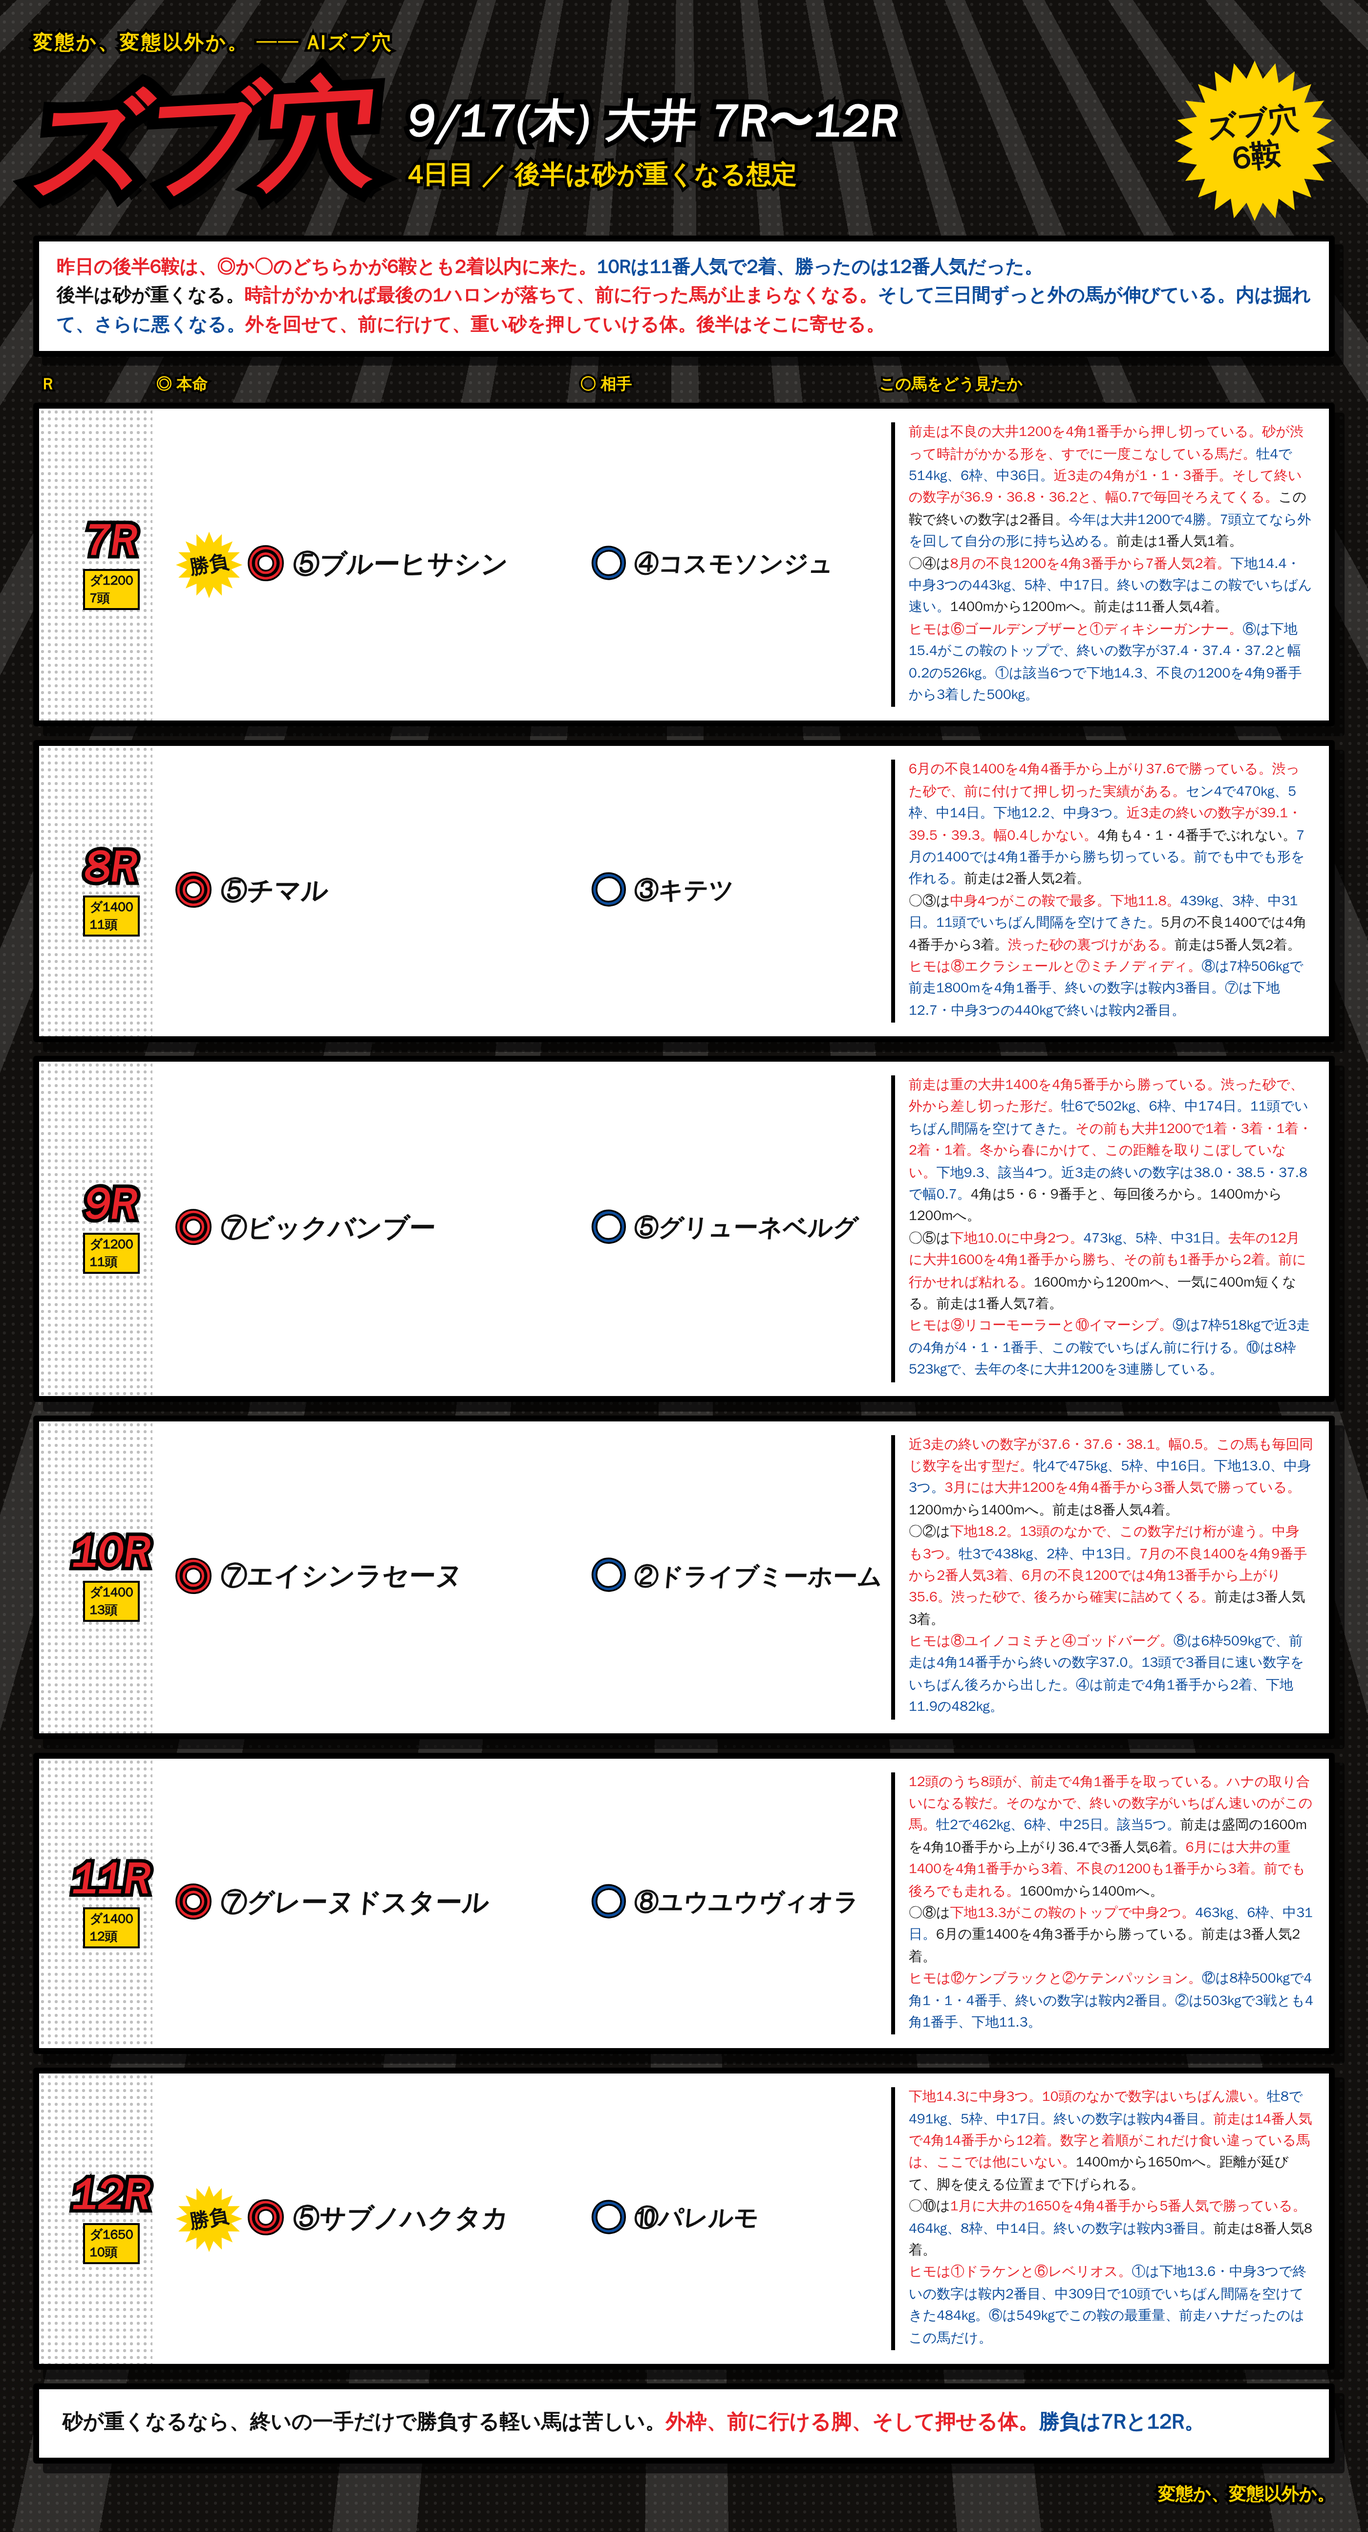
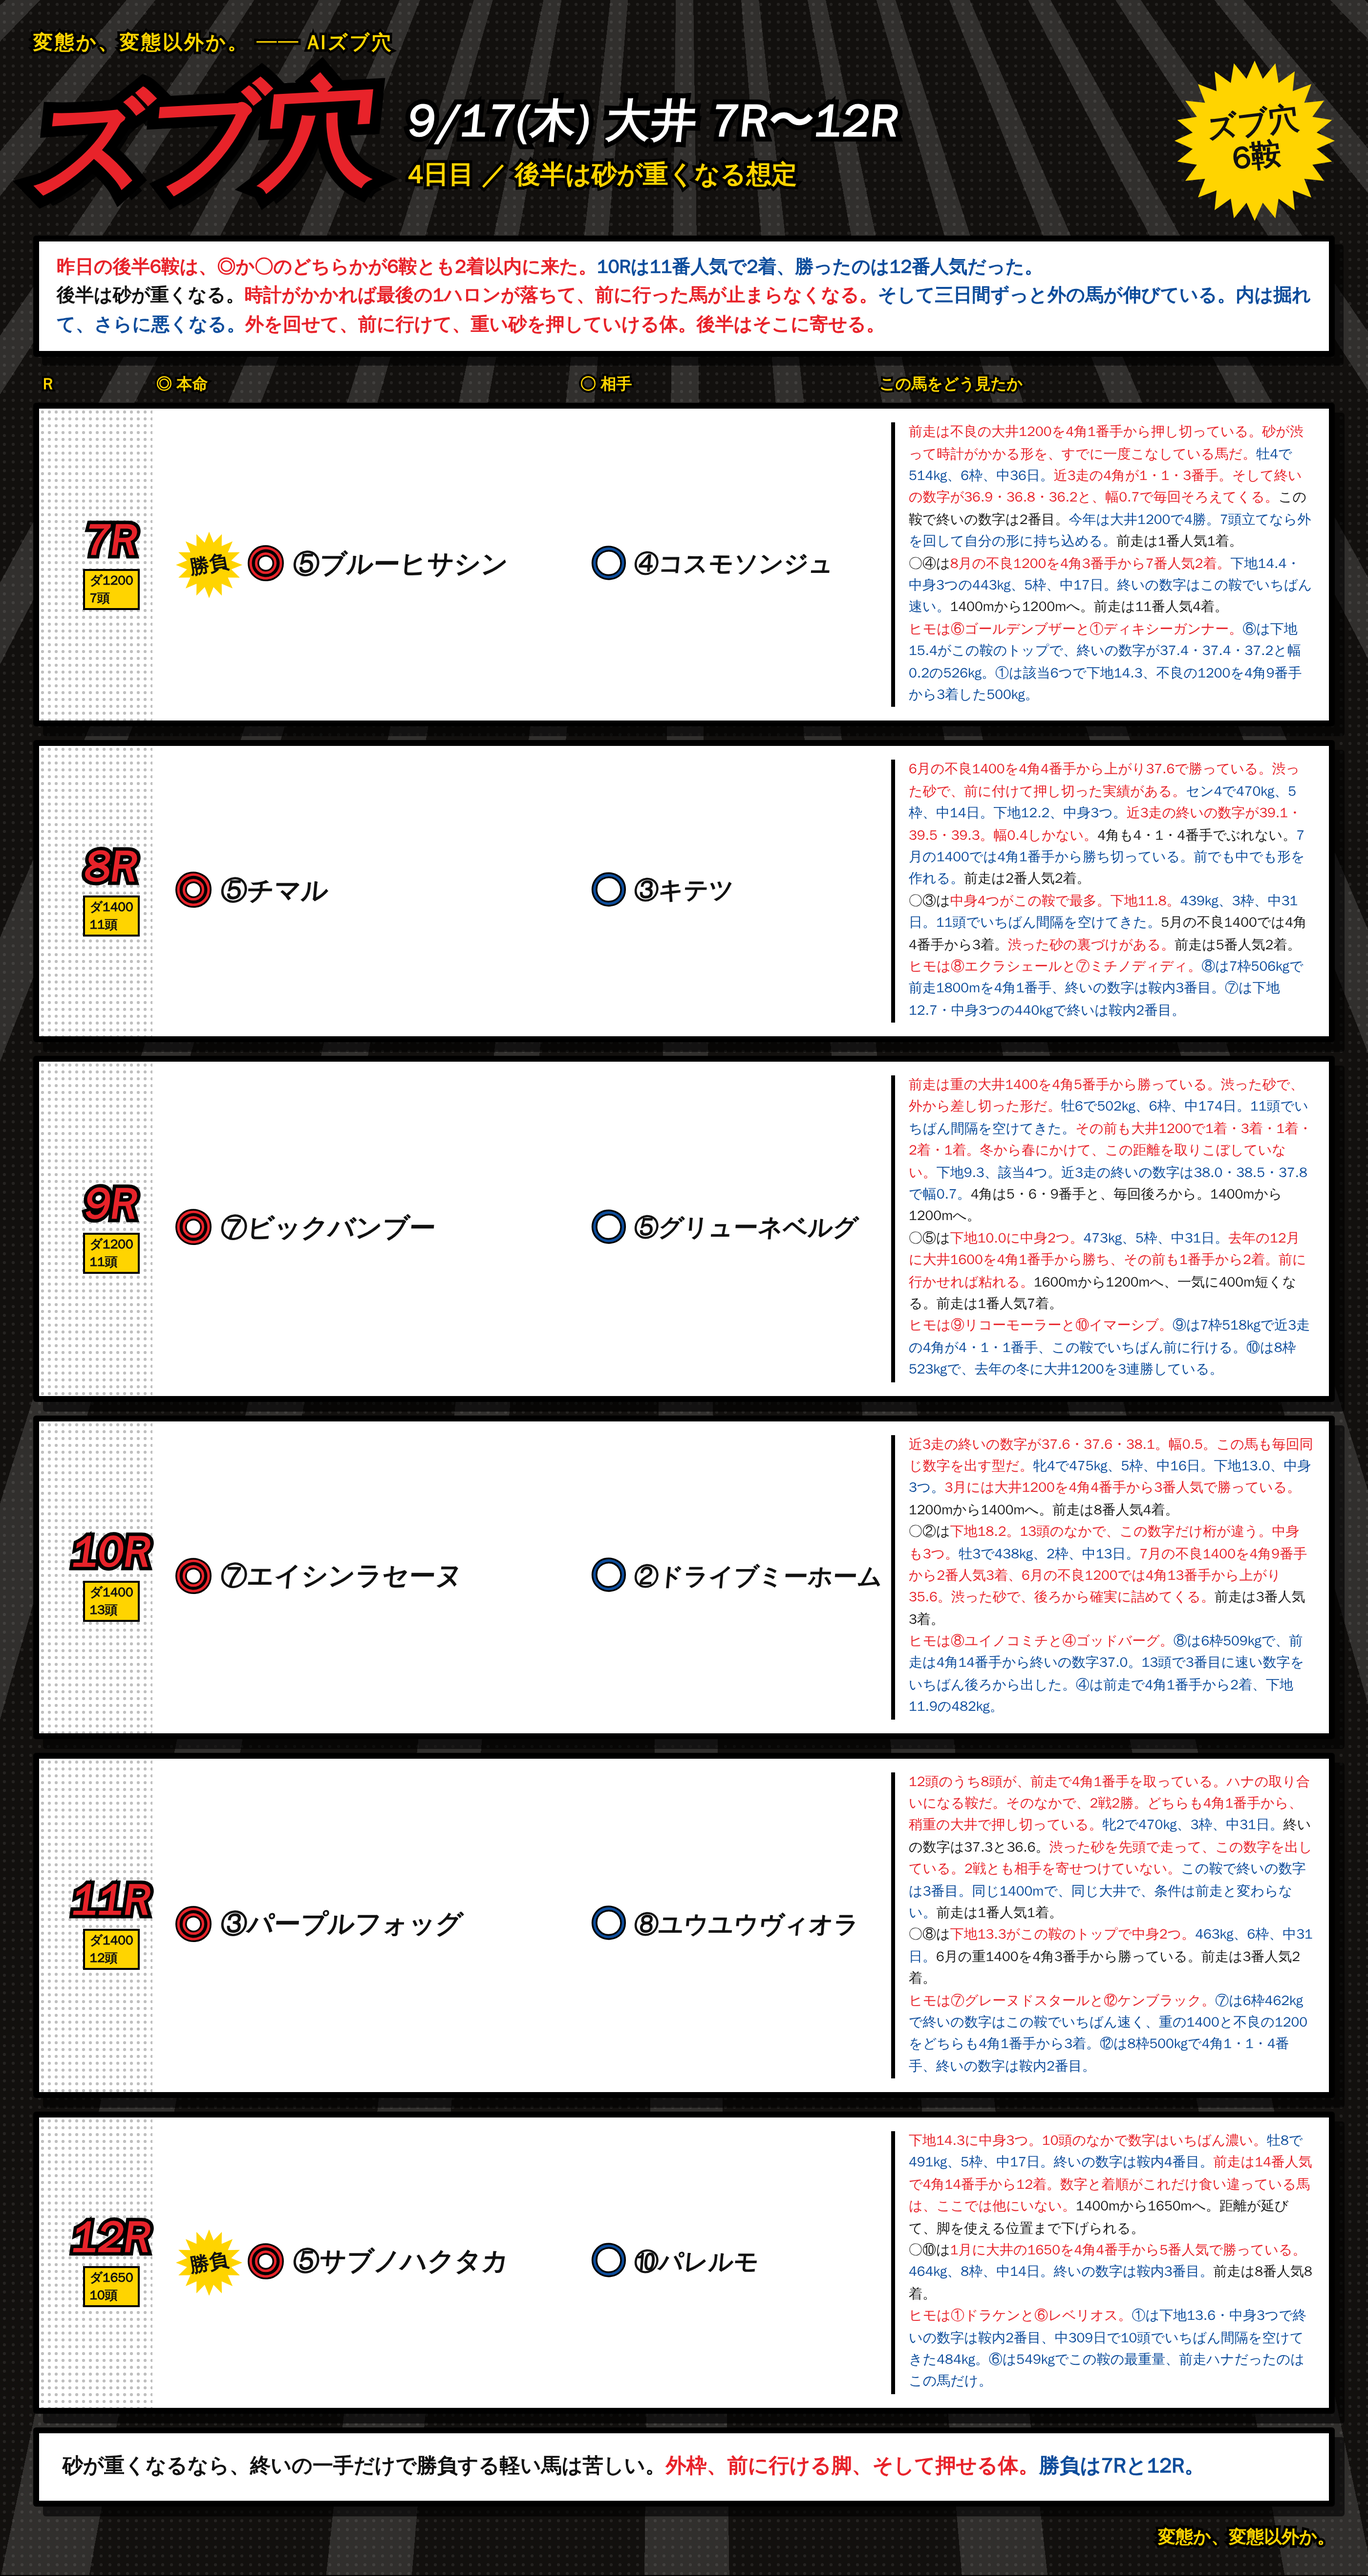
11Rを◎③パープルフォッグに変更
ヒモを⑦グレーヌドスタール・⑫ケンブラックに。

Claude-Session: https://claude.ai/code/session_01RoHscZkr96FNaxQWvUqgEw

diff --git a/notes/live/2026-09-17/oi_7_12.html b/notes/live/2026-09-17/oi_7_12.html
@@ -85,7 +85,7 @@
 <div class="row"><div class="corner"></div><div class="rN"><div class="n">8R</div><div class="d">ダ1400<br>11頭</div></div><div class="hm"><span class="mk">◎</span><span class="nm">⑤チマル</span></div><div class="at"><span class="mk2">○</span><span class="nm2">③キテツ</span></div><div class="memo"><b class="r">6月の不良1400を4角4番手から上がり37.6で勝っている。渋った砂で、前に付けて押し切った実績がある。</b><b>セン4で470kg、5枠、中14日。下地12.2、中身3つ。</b><b class="r">近3走の終いの数字が39.1・39.5・39.3。幅0.4しかない。</b>4角も4・1・4番手でぶれない。<b>7月の1400では4角1番手から勝ち切っている。前でも中でも形を作れる。</b>前走は2番人気2着。<br>○③は<b class="r">中身4つがこの鞍で最多。下地11.8。</b><b>439kg、3枠、中31日。11頭でいちばん間隔を空けてきた。</b>5月の不良1400では4角4番手から3着。<b class="r">渋った砂の裏づけがある。</b>前走は5番人気2着。<br><b class="r">ヒモは⑧エクラシェールと⑦ミチノディディ。</b><b>⑧は7枠506kgで前走1800mを4角1番手、終いの数字は鞍内3番目。⑦は下地12.7・中身3つの440kgで終いは鞍内2番目。</b></div></div>
 <div class="row"><div class="corner"></div><div class="rN"><div class="n">9R</div><div class="d">ダ1200<br>11頭</div></div><div class="hm"><span class="mk">◎</span><span class="nm">⑦ビックバンブー</span></div><div class="at"><span class="mk2">○</span><span class="nm2">⑤グリューネベルグ</span></div><div class="memo"><b class="r">前走は重の大井1400を4角5番手から勝っている。渋った砂で、外から差し切った形だ。</b><b>牡6で502kg、6枠、中174日。11頭でいちばん間隔を空けてきた。</b><b class="r">その前も大井1200で1着・3着・1着・2着・1着。冬から春にかけて、この距離を取りこぼしていない。</b><b>下地9.3、該当4つ。近3走の終いの数字は38.0・38.5・37.8で幅0.7。</b>4角は5・6・9番手と、毎回後ろから。1400mから1200mへ。<br>○⑤は<b class="r">下地10.0に中身2つ。</b><b>473kg、5枠、中31日。</b><b class="r">去年の12月に大井1600を4角1番手から勝ち、その前も1番手から2着。前に行かせれば粘れる。</b>1600mから1200mへ、一気に400m短くなる。前走は1番人気7着。<br><b class="r">ヒモは⑨リコーモーラーと⑩イマーシブ。</b><b>⑨は7枠518kgで近3走の4角が4・1・1番手、この鞍でいちばん前に行ける。⑩は8枠523kgで、去年の冬に大井1200を3連勝している。</b></div></div>
 <div class="row"><div class="corner"></div><div class="rN"><div class="n">10R</div><div class="d">ダ1400<br>13頭</div></div><div class="hm"><span class="mk">◎</span><span class="nm">⑦エイシンラセーヌ</span></div><div class="at"><span class="mk2">○</span><span class="nm2">②ドライブミーホーム</span></div><div class="memo"><b class="r">近3走の終いの数字が37.6・37.6・38.1。幅0.5。この馬も毎回同じ数字を出す型だ。</b><b>牝4で475kg、5枠、中16日。下地13.0、中身3つ。</b><b class="r">3月には大井1200を4角4番手から3番人気で勝っている。</b>1200mから1400mへ。前走は8番人気4着。<br>○②は<b class="r">下地18.2。13頭のなかで、この数字だけ桁が違う。中身も3つ。</b><b>牡3で438kg、2枠、中13日。</b><b class="r">7月の不良1400を4角9番手から2番人気3着、6月の不良1200では4角13番手から上がり35.6。渋った砂で、後ろから確実に詰めてくる。</b>前走は3番人気3着。<br><b class="r">ヒモは⑧ユイノコミチと④ゴッドバーグ。</b><b>⑧は6枠509kgで、前走は4角14番手から終いの数字37.0。13頭で3番目に速い数字をいちばん後ろから出した。④は前走で4角1番手から2着、下地11.9の482kg。</b></div></div>
-<div class="row"><div class="corner"></div><div class="rN"><div class="n">11R</div><div class="d">ダ1400<br>12頭</div></div><div class="hm"><span class="mk">◎</span><span class="nm">⑦グレーヌドスタール</span></div><div class="at"><span class="mk2">○</span><span class="nm2">⑧ユウユウヴィオラ</span></div><div class="memo"><b class="r">12頭のうち8頭が、前走で4角1番手を取っている。ハナの取り合いになる鞍だ。</b><b class="r">そのなかで、終いの数字がいちばん速いのがこの馬。</b><b>牡2で462kg、6枠、中25日。該当5つ。</b>前走は盛岡の1600mを4角10番手から上がり36.4で3番人気6着。<b class="r">6月には大井の重1400を4角1番手から3着、不良の1200も1番手から3着。前でも後ろでも走れる。</b>1600mから1400mへ。<br>○⑧は<b class="r">下地13.3がこの鞍のトップで中身2つ。</b><b>463kg、6枠、中31日。</b>6月の重1400を4角3番手から勝っている。前走は3番人気2着。<br><b class="r">ヒモは⑫ケンブラックと②ケテンパッション。</b><b>⑫は8枠500kgで4角1・1・4番手、終いの数字は鞍内2番目。②は503kgで3戦とも4角1番手、下地11.3。</b></div></div>
+<div class="row"><div class="corner"></div><div class="rN"><div class="n">11R</div><div class="d">ダ1400<br>12頭</div></div><div class="hm"><span class="mk">◎</span><span class="nm">③パープルフォッグ</span></div><div class="at"><span class="mk2">○</span><span class="nm2">⑧ユウユウヴィオラ</span></div><div class="memo"><b class="r">12頭のうち8頭が、前走で4角1番手を取っている。ハナの取り合いになる鞍だ。</b><b class="r">そのなかで、2戦2勝。どちらも4角1番手から、稍重の大井で押し切っている。</b><b>牝2で470kg、3枠、中31日。</b>終いの数字は37.3と36.6。<b class="r">渋った砂を先頭で走って、この数字を出している。2戦とも相手を寄せつけていない。</b><b>この鞍で終いの数字は3番目。同じ1400mで、同じ大井で、条件は前走と変わらない。</b>前走は1番人気1着。<br>○⑧は<b class="r">下地13.3がこの鞍のトップで中身2つ。</b><b>463kg、6枠、中31日。</b>6月の重1400を4角3番手から勝っている。前走は3番人気2着。<br><b class="r">ヒモは⑦グレーヌドスタールと⑫ケンブラック。</b><b>⑦は6枠462kgで終いの数字はこの鞍でいちばん速く、重の1400と不良の1200をどちらも4角1番手から3着。⑫は8枠500kgで4角1・1・4番手、終いの数字は鞍内2番目。</b></div></div>
 <div class="row"><div class="corner"></div><div class="rN"><div class="n">12R</div><div class="d">ダ1650<br>10頭</div></div><div class="hm"><div class="sb"><span>勝負</span></div><span class="mk">◎</span><span class="nm">⑤サブノハクタカ</span></div><div class="at"><span class="mk2">○</span><span class="nm2">⑩パレルモ</span></div><div class="memo"><b class="r">下地14.3に中身3つ。10頭のなかで数字はいちばん濃い。</b><b>牡8で491kg、5枠、中17日。終いの数字は鞍内4番目。</b><b class="r">前走は14番人気で4角14番手から12着。数字と着順がこれだけ食い違っている馬は、ここでは他にいない。</b>1400mから1650mへ。距離が延びて、脚を使える位置まで下げられる。<br>○⑩は<b class="r">1月に大井の1650を4角4番手から5番人気で勝っている。</b><b>464kg、8枠、中14日。終いの数字は鞍内3番目。</b>前走は8番人気8着。<br><b class="r">ヒモは①ドラケンと⑥レベリオス。</b><b>①は下地13.6・中身3つで終いの数字は鞍内2番目、中309日で10頭でいちばん間隔を空けてきた484kg。⑥は549kgでこの鞍の最重量、前走ハナだったのはこの馬だけ。</b></div></div>
 <div class="foot">砂が重くなるなら、終いの一手だけで勝負する軽い馬は苦しい。<span class="r">外枠、前に行ける脚、そして押せる体。</span><span class="b">勝負は7Rと12R。</span></div>
 <div class="sig">変態か、変態以外か。</div>
